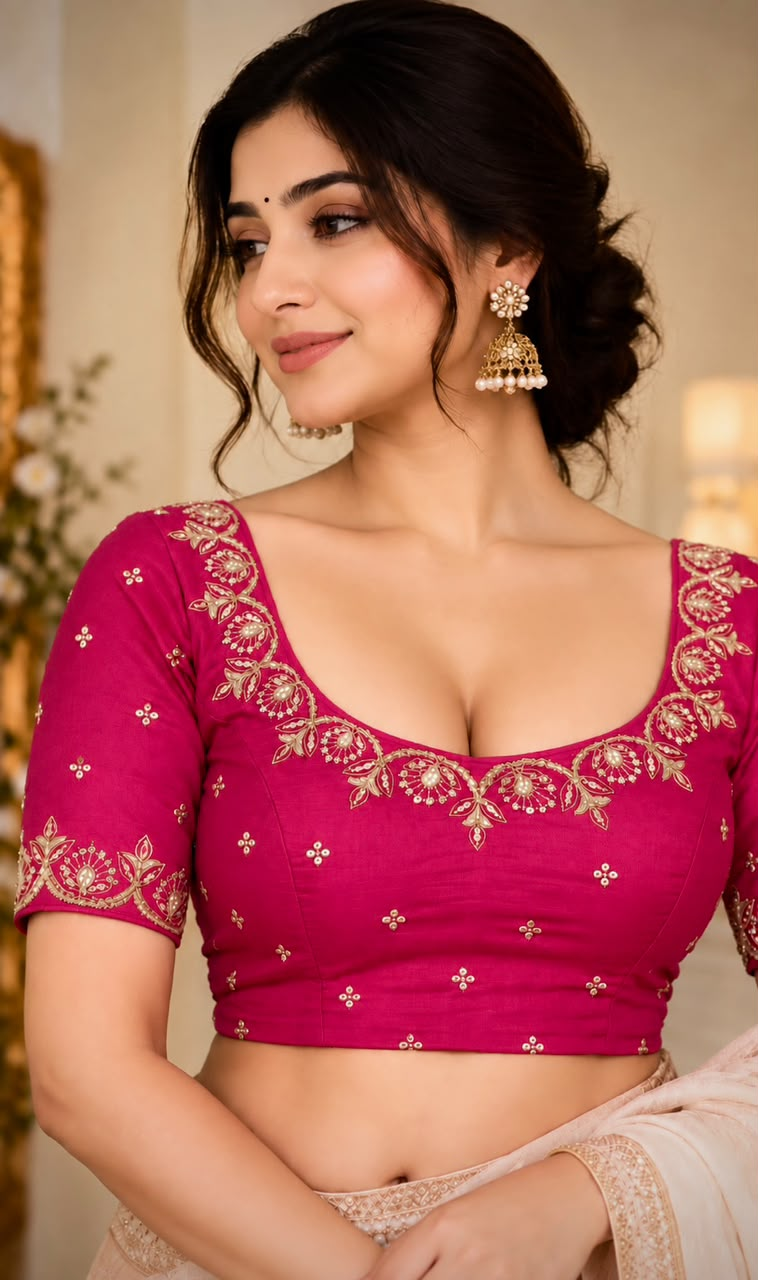
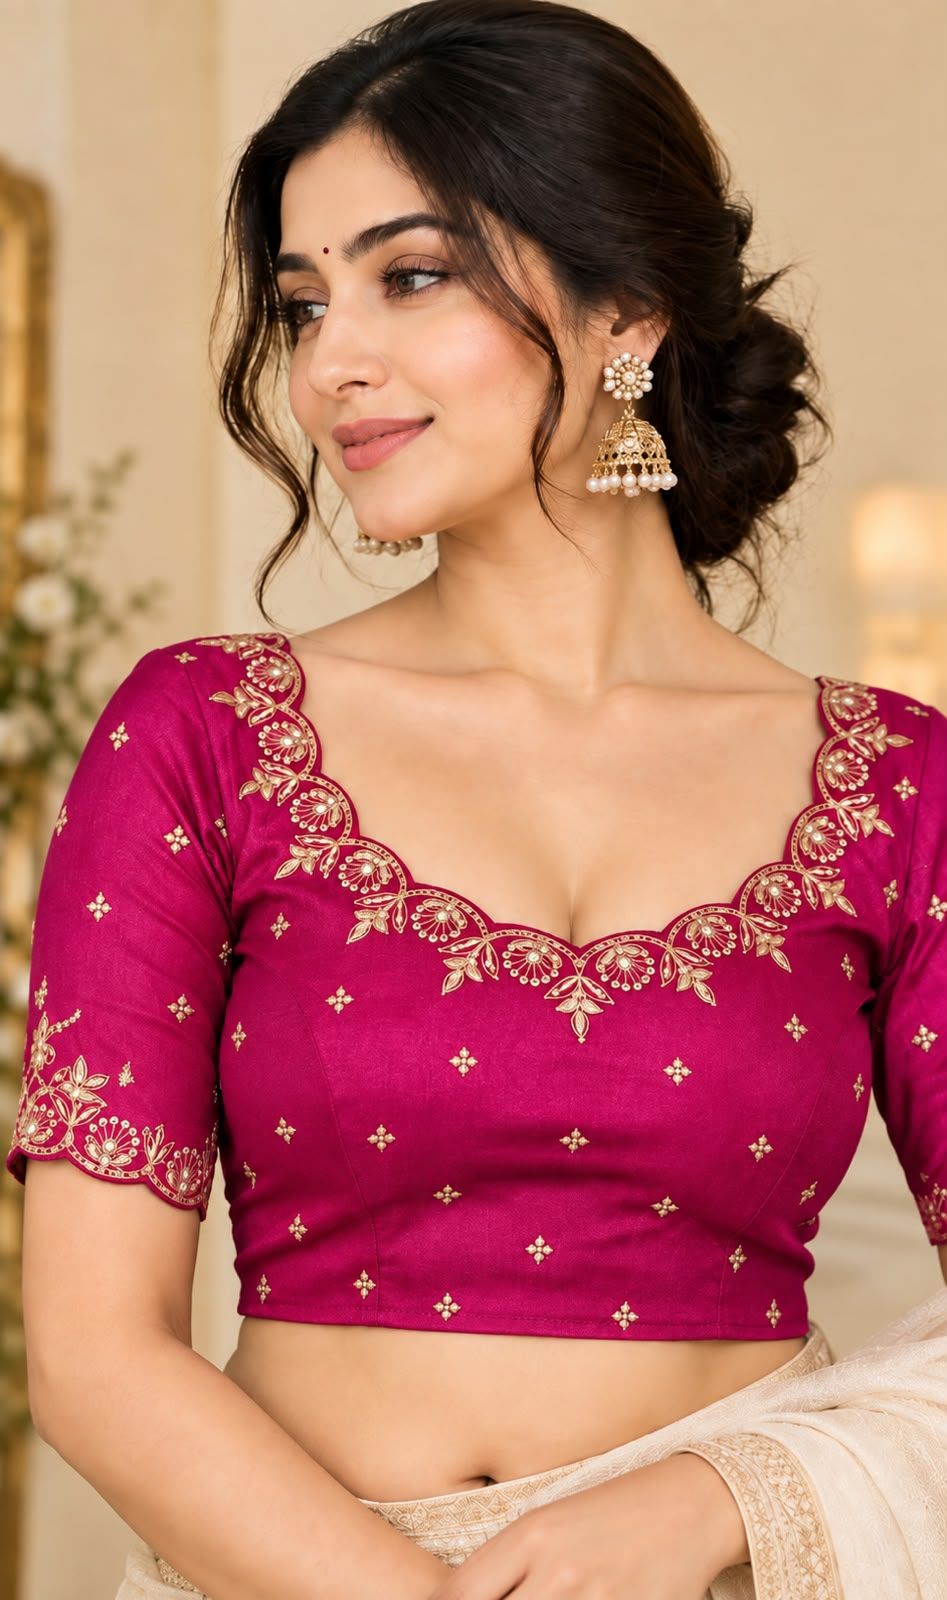
Refresh Barby colour galleries and simplify catalogue badges

diff --git a/js/products.js b/js/products.js
@@ -47,8 +47,7 @@ const PRODUCTS = [
       },
       { name: "Bottle Green", hex: "#0e4c3a", image: "images/masoba-green-front.jpeg" },
       { name: "Rani Pink", hex: "#b21968", image: "images/masoba-rani-pink-front.jpeg" }
-    ],
-    badge: "New collection"
+    ]
   },
   {
     id: "mumtaz-blouse",
@@ -93,8 +92,7 @@ const PRODUCTS = [
         name: "Bottle Green", hex: "#0b5138", image: "images/mumtaz-front-green.png",
         gallery: ["images/mumtaz-front-green-alt.png", "images/mumtaz-detail-green.jpeg"]
       }
-    ],
-    badge: "Festive pick"
+    ]
   },
   {
     id: "mumtaz-d2-blouse",
@@ -139,8 +137,7 @@ const PRODUCTS = [
         name: "White", hex: "#f8f6ef", image: "images/mumtaz-d2-white-front.png",
         gallery: ["images/mumtaz-d2-white-back.png", "images/mumtaz-d2-white-detail.png"]
       }
-    ],
-    badge: "New arrival"
+    ]
   },
   {
     id: "queen-blouse",
@@ -179,8 +176,7 @@ const PRODUCTS = [
       "images/queen-blouse-front-maroon.jpeg",
       "images/queen-blouse-back-maroon.jpeg",
       "images/queen-blouse-flat-lay-maroon.jpeg"
-    ],
-    badge: "New arrival"
+    ]
   },
   {
     id: "barby-blouse",
@@ -215,17 +211,20 @@ const PRODUCTS = [
     colours: [
       {
         name: "Red", hex: "#b81632", image: "images/barby-red-front.jpeg",
-        gallery: ["images/barby-red-back.jpeg", "images/barby-red-side.jpeg", "images/barby-red-detail.jpeg"]
+        gallery: ["images/barby-red-side.jpeg", "images/barby-red-back.jpeg", "images/barby-red-detail.jpeg"]
       },
       {
         name: "Tusser", hex: "#bc9352", image: "images/barby-tusser-front.jpeg",
-        gallery: ["images/barby-tusser-back.jpeg", "images/barby-tusser-side.jpeg", "images/barby-tusser-detail.jpeg"]
+        gallery: ["images/barby-tusser-side.jpeg", "images/barby-tusser-back.jpeg", "images/barby-tusser-detail.jpeg"]
       },
       {
         name: "Wine", hex: "#581447", image: "images/barby-wine-front.jpeg",
-        gallery: ["images/barby-wine-back.jpeg", "images/barby-wine-side.jpeg", "images/barby-wine-detail.jpeg"]
+        gallery: ["images/barby-wine-side.jpeg", "images/barby-wine-back.jpeg", "images/barby-wine-detail.jpeg"]
       },
-      { name: "Pink", hex: "#c3196a", image: "images/barby-pink-front.jpeg" }
+      {
+        name: "Pink", hex: "#c3196a", image: "images/barby-pink-front.jpeg",
+        gallery: ["images/barby-pink-collage.jpeg", "images/barby-pink-flat-lay.jpeg", "images/barby-pink-back.jpeg"]
+      }
     ],
     badge: "New arrival"
   },

diff --git a/css/style.css b/css/style.css
@@ -147,6 +147,13 @@ textarea { resize: vertical; }
 .product-badge--green { background: #0b5138; }
 .product-badge--yellow { color: #26030b; background: #f4c542; }
 .product-sale-sticker { position: absolute; top: 9px; right: 9px; z-index: 1; display: inline-flex; align-items: center; justify-content: center; width: 62px; height: 62px; padding: 6px; color: var(--white); border: 2px solid var(--white); border-radius: 50%; background: #c62836; box-shadow: 0 3px 10px rgba(38, 3, 11, 0.3); font-size: 0.62rem; font-weight: 900; letter-spacing: 0.04em; line-height: 1.1; text-align: center; text-transform: uppercase; }
+@media (prefers-reduced-motion: no-preference) {
+  .product-sale-sticker { animation: sale-sticker-pulse 3s ease-in-out infinite; }
+}
+@keyframes sale-sticker-pulse {
+  0%, 36%, 100% { transform: scale(1); }
+  18% { transform: scale(1.08); }
+}
 @media (max-width: 579px) {
   .product-sale-sticker { width: 54px; height: 54px; font-size: 0.57rem; }
 }

diff --git a/js/main.js b/js/main.js
@@ -222,7 +222,7 @@ function productCard(product, variant) {
     <article class="product-card">
       <a class="product-image-link" href="${url}" aria-label="View ${title}">
         <img src="${colour.image}" alt="${product.name} in ${colour.name}" loading="lazy">
-        <span class="product-badge${product.badgeTheme ? ` product-badge--${product.badgeTheme}` : ""}">${product.badge}</span>
+        ${product.badge ? `<span class="product-badge${product.badgeTheme ? ` product-badge--${product.badgeTheme}` : ""}">${product.badge}</span>` : ""}
         ${product.promoBadge ? `<span class="product-sale-sticker">${product.promoBadge}</span>` : ""}
         <span class="product-image-overlay">View details</span>
       </a>
